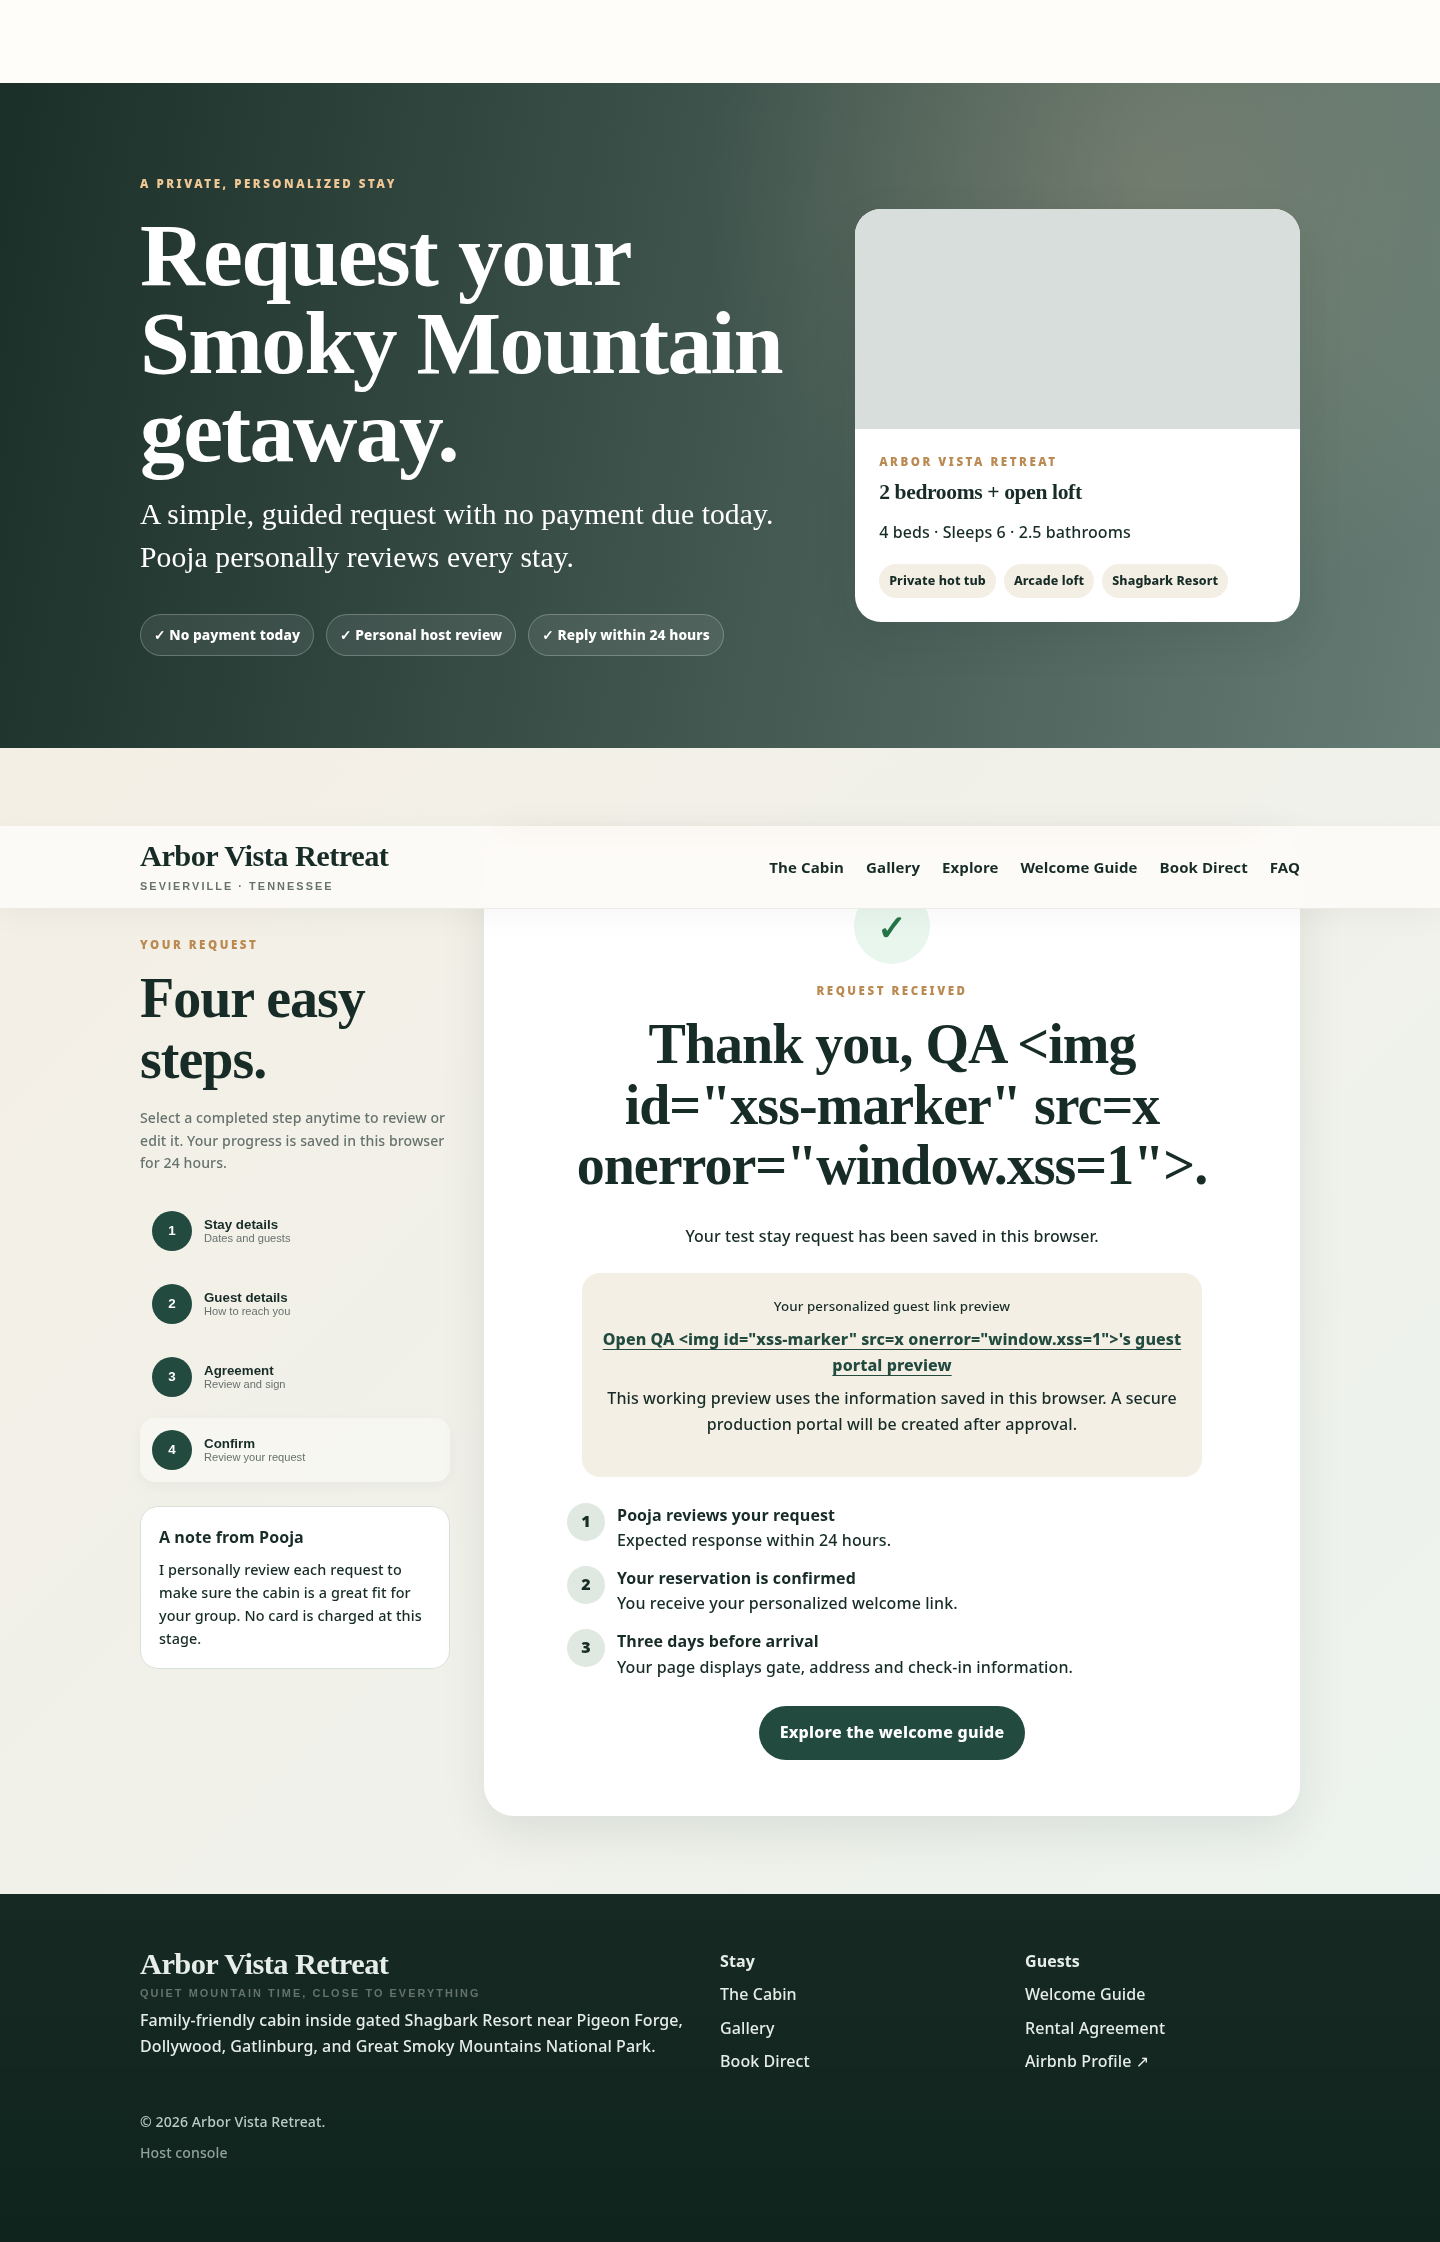
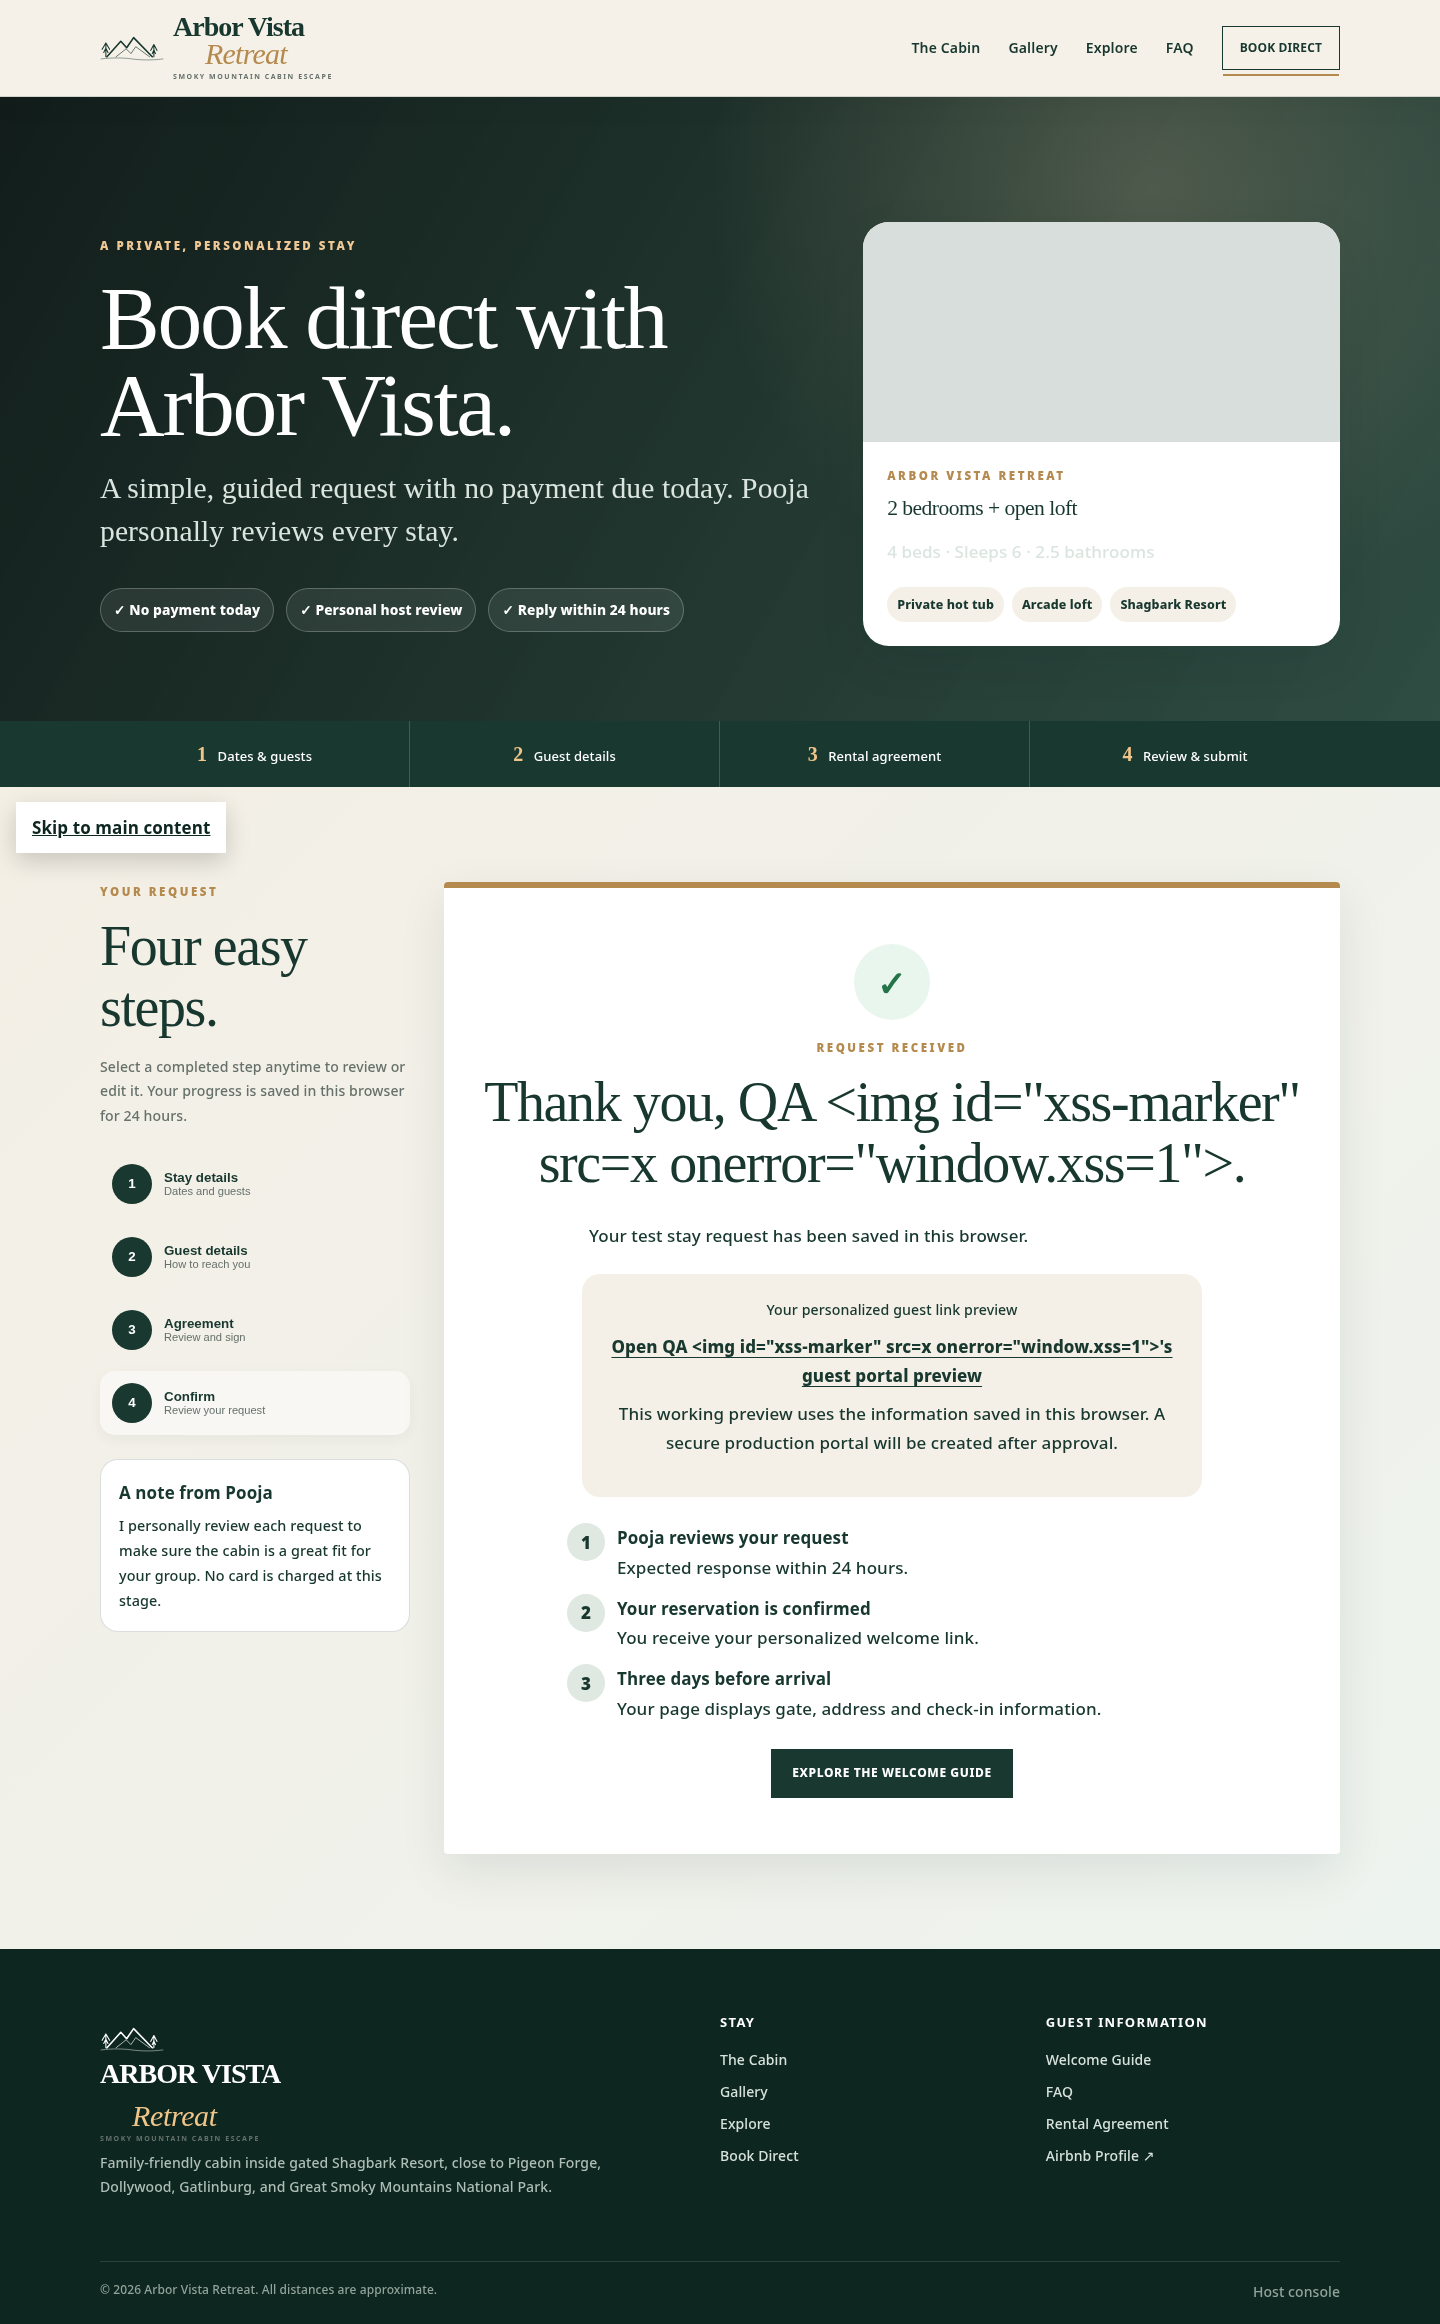
Release v4.3.2_UI Stabilization_1

Changed region(s): [[0.0, 0.0, 1.0, 0.9367], [0.0625, 0.8742, 0.4375, 0.9679]]

diff --git a/QA/run_web_qa.py b/QA/run_web_qa.py
@@ -101,7 +101,13 @@ def static_checks(qa: QA) -> None:
         if not viewport:
             missing_metadata.append(f"{rel}: viewport")
         base = soup.find("base")
-        if not base or base.get("href") != "/ArborVista-Labs/":
+        if rel == "guest/index.html":
+            if not base or base.get("href") != "../":
+                wrong_base.append(rel)
+        elif rel == "guest/john-smith-4827/index.html":
+            if not base or base.get("href") != "../../":
+                wrong_base.append(rel)
+        elif base is not None:
             wrong_base.append(rel)
 
         ids: dict[str, int] = {}
@@ -159,7 +165,7 @@ def static_checks(qa: QA) -> None:
     qa.check("Every image has alt text", not missing_alt, missing_alt)
     qa.check("Form controls have accessible labels", not unlabeled, unlabeled)
     qa.check("Every page has title and viewport metadata", not missing_metadata, missing_metadata)
-    qa.check("GitHub Pages base path is consistent", not wrong_base, wrong_base)
+    qa.check("Portable page base paths are consistent", not wrong_base, wrong_base)
 
     all_html = "\n".join((ROOT / page).read_text(encoding="utf-8") for page in PUBLIC_PAGES).lower()
     qa.check("Property is never described as three bedrooms", "3 bedroom" not in all_html and "three bedroom" not in all_html)
@@ -199,9 +205,9 @@ def render_page(rel: str) -> str:
     for link in list(soup.find_all("link")):
         href = link.get("href", "")
         target = local_target(href)
-        if target == "assets/style.css":
+        if target and target.endswith(".css") and (ROOT / target).exists():
             style = soup.new_tag("style")
-            style.string = (ROOT / "assets" / "style.css").read_text(encoding="utf-8")
+            style.string = (ROOT / target).read_text(encoding="utf-8")
             link.replace_with(style)
         elif href.startswith("https://"):
             link.decompose()

diff --git a/QA_REPORT_V4.3.1_FINAL.md b/QA_REPORT_V4.3.1_FINAL.md
@@ -1,0 +1,51 @@
+# Arbor Vista Platform v4.3.1 — Final QA Report
+
+**Release:** v4.3.1 — UI Rotation + Direct Booking Restore  
+**Status:** PASS  
+**Prepared:** July 31, 2026
+
+## Corrections delivered
+
+- Replaced the missing/blank logo with a responsive mountain, pine, **Arbor Vista**, script **Retreat**, and *Smoky Mountain Cabin Escape* lockup.
+- Darkened the Cabin hero background across its full width so the white heading and description remain readable.
+- Replaced crowded multi-image grids with single-image fade rotators.
+- Rotators change every **3 seconds**, hide the previous slide, and display only one slide at a time.
+- Homepage signature experiences rotate through three images.
+- Cabin sleeping spaces rotate through king suite, queen suite, and open loft.
+- Cabin kitchen rotates only the two approved charcoal-kitchen images.
+- Restored and emphasized the complete Book Direct workflow.
+- Added a direct-booking section on the homepage and a four-step proof bar on the booking page.
+- Removed the hard-coded `/ArborVista-Labs/` base from root pages so the package is portable to Labs, production, or the custom domain.
+
+## Direct booking verification
+
+The following flow remains in the package and was exercised in Chromium:
+
+1. Stay details
+2. Guest details
+3. Rental agreement
+4. Review and submit
+5. Browser-based confirmation and guest-portal preview
+
+A valid Step 1 request successfully advanced to Step 2 during focused browser QA.
+
+## QA suites
+
+| Suite | Result |
+|---|---:|
+| v4.3.1 static contract | 14/14 passed |
+| v4.3.1 focused browser | 24/24 passed |
+| Public website regression | 42/42 passed |
+| Database/calendar regression | 33/33 passed |
+| Multi-property/platform API | 80/80 passed |
+
+## Preview files
+
+- `QA/screenshots/home-v431-desktop.png`
+- `QA/screenshots/home-v431-mobile.png`
+- `QA/screenshots/cabin-v431-desktop.png`
+- `QA/screenshots/book-direct-v431-desktop.png`
+
+## Important test-release limitation
+
+The booking form works as a browser/local preview. Production email delivery, secure cloud storage, authentication, live pricing, and payments are still pending.

diff --git a/README_V4.3.1.md b/README_V4.3.1.md
@@ -1,0 +1,25 @@
+# Arbor Vista Platform v4.3.1 — UI Rotation + Direct Booking Restore
+
+This corrective test release keeps the v4.3 premium visual direction while fixing the issues identified during review.
+
+## Corrections
+
+- Replaced the blank/broken PNG header logo with a responsive HTML/SVG Arbor Vista lockup inspired by the supplied left-side logo.
+- Darkened the entire Cabin hero background so white text is readable.
+- Replaced multi-image grids with one visible image per area and automatic 3-second fade rotation.
+- Homepage signature experiences rotate through three images.
+- Cabin sleeping spaces rotate through king suite, queen suite, and open loft.
+- Cabin kitchen rotates between the two approved charcoal-kitchen images.
+- Restored and emphasized the full four-step Book Direct flow.
+- Added a Book Direct section to the homepage and a booking-step proof bar on the booking page.
+- Removed the hard-coded `/ArborVista-Labs/` base from root pages so the same package works in Labs, the production repository, or `arborvistaretreat.com`.
+
+## Direct booking flow preserved
+
+1. Stay details
+2. Guest details
+3. Rental agreement
+4. Review and submit
+5. Browser-based confirmation and guest portal preview
+
+No production payment or email is connected in this test release.

diff --git a/QA_REPORT_WEB_V2.8.md b/QA_REPORT_WEB_V2.8.md
@@ -11,7 +11,7 @@ Passed 42 of 42 automated checks.
 - PASS — Every image has alt text
 - PASS — Form controls have accessible labels
 - PASS — Every page has title and viewport metadata
-- PASS — GitHub Pages base path is consistent
+- PASS — Portable page base paths are consistent
 - PASS — Property is never described as three bedrooms
 - PASS — Occupancy language supports approved seven-to-eight guest requests
 - PASS — Correct room model is present

diff --git a/UPLOAD_TO_GITHUB_V4.3.1.md b/UPLOAD_TO_GITHUB_V4.3.1.md
@@ -1,0 +1,10 @@
+# Upload v4.3.1 to GitHub
+
+1. Extract the complete ZIP.
+2. Upload the files inside the extracted project folder to the root of `ArborVista-Labs`.
+3. Replace matching older files.
+4. Commit the changes.
+5. Test `index.html`, `cabin.html`, and `book-direct.html` through GitHub Pages.
+6. After approval, promote the same tested files to `ArborVista-Retreat`.
+
+Do not upload the ZIP itself into the repository.

diff --git a/README.md b/README.md
@@ -1,3 +1,5 @@
+> Current test UI release: **v4.3.2 UI Stabilization**. See `README_V4.3.2.md`.
+
 # Arbor Vista Platform v4.3 — Premium UI Test Build
 
 See `README_V4.3.md` and `Docs/CHANGELOG_V4.3.md` for the UI scope.
